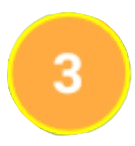
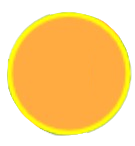
cambios solicitados por OC

Changed region(s): [[0.3852, 0.3562, 0.6222, 0.6575]]

diff --git a/lib/src/screens/map_screen.dart b/lib/src/screens/map_screen.dart
@@ -30,6 +30,7 @@ class _MapScreenState extends State<MapScreen> {
   late FollowOnLocationUpdate _followOnLocationUpdate;
   late final StreamController<double?> _followCurrentLocationStreamController;
   final box = GetStorage();
+  double sizePredio = 2.0;
   double currentZoom = 18.49;
   LatLng? myPosition;
   String posicion = "";
@@ -54,6 +55,7 @@ class _MapScreenState extends State<MapScreen> {
     if (mounted) {
       setState(() {
         tileSelect = box.read('tileSelect') ?? tilesOption[0];
+        sizePredio = box.read('sizePredio') ?? 2.0;
       });
     }
     _followOnLocationUpdate = FollowOnLocationUpdate.always;
@@ -317,7 +319,7 @@ class _MapScreenState extends State<MapScreen> {
                                                 _.ordenManzInt[i + 1] == 1)
                                         ? Colors.red
                                         : Colors.orange,
-                                radius: 5.2,
+                                radius: sizePredio,
                                 borderStrokeWidth: 1,
                               );
                               pll.circles.add(pl);
@@ -461,25 +463,36 @@ class _MapScreenState extends State<MapScreen> {
                         color: Colors.white,
                       ),
                       onPressed: () {
-                        currentZoom++;
-                        mapController0.move(mapController0.center, currentZoom);
+                        setState(() {
+                          sizePredio += 0.2;
+                          box.write('sizePredio', sizePredio);
+                        });
+                        //currentZoom++;
+                        //mapController0.move(mapController0.center, currentZoom);
                       },
                     ),
                   ),
                   const SizedBox(
                     height: 10,
                   ),
-                  CircleAvatar(
-                    backgroundColor: Colors.redAccent, //<-- SEE HERE
-                    child: IconButton(
-                      icon: const Icon(
-                        Icons.remove,
-                        color: Colors.white,
+                  InfoPopupWidget(
+                    contentTitle: 'Reducir el tamaño del predio',
+                    child: CircleAvatar(
+                      backgroundColor: Colors.redAccent, //<-- SEE HERE
+                      child: IconButton(
+                        icon: const Icon(
+                          Icons.remove,
+                          color: Colors.white,
+                        ),
+                        onPressed: () {
+                          //currentZoom--;
+                          //mapController0.move(mapController0.center, currentZoom);
+                          setState(() {
+                            sizePredio -= 0.2;
+                            box.write('sizePredio', sizePredio);
+                          });
+                        },
                       ),
-                      onPressed: () {
-                        currentZoom--;
-                        mapController0.move(mapController0.center, currentZoom);
-                      },
                     ),
                   ),
                   const SizedBox(
